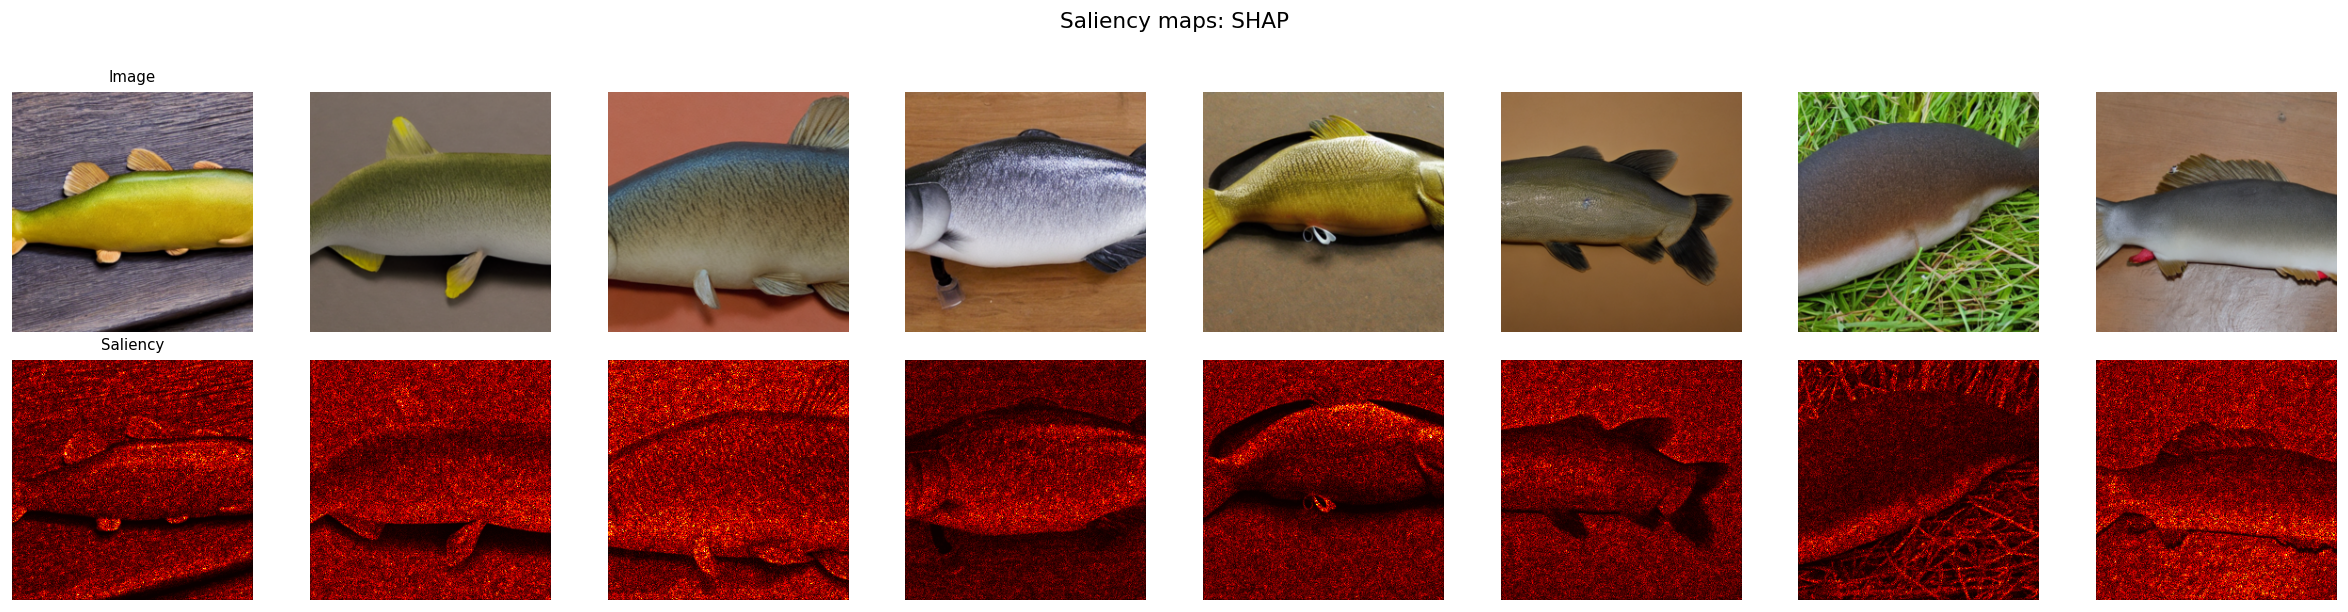
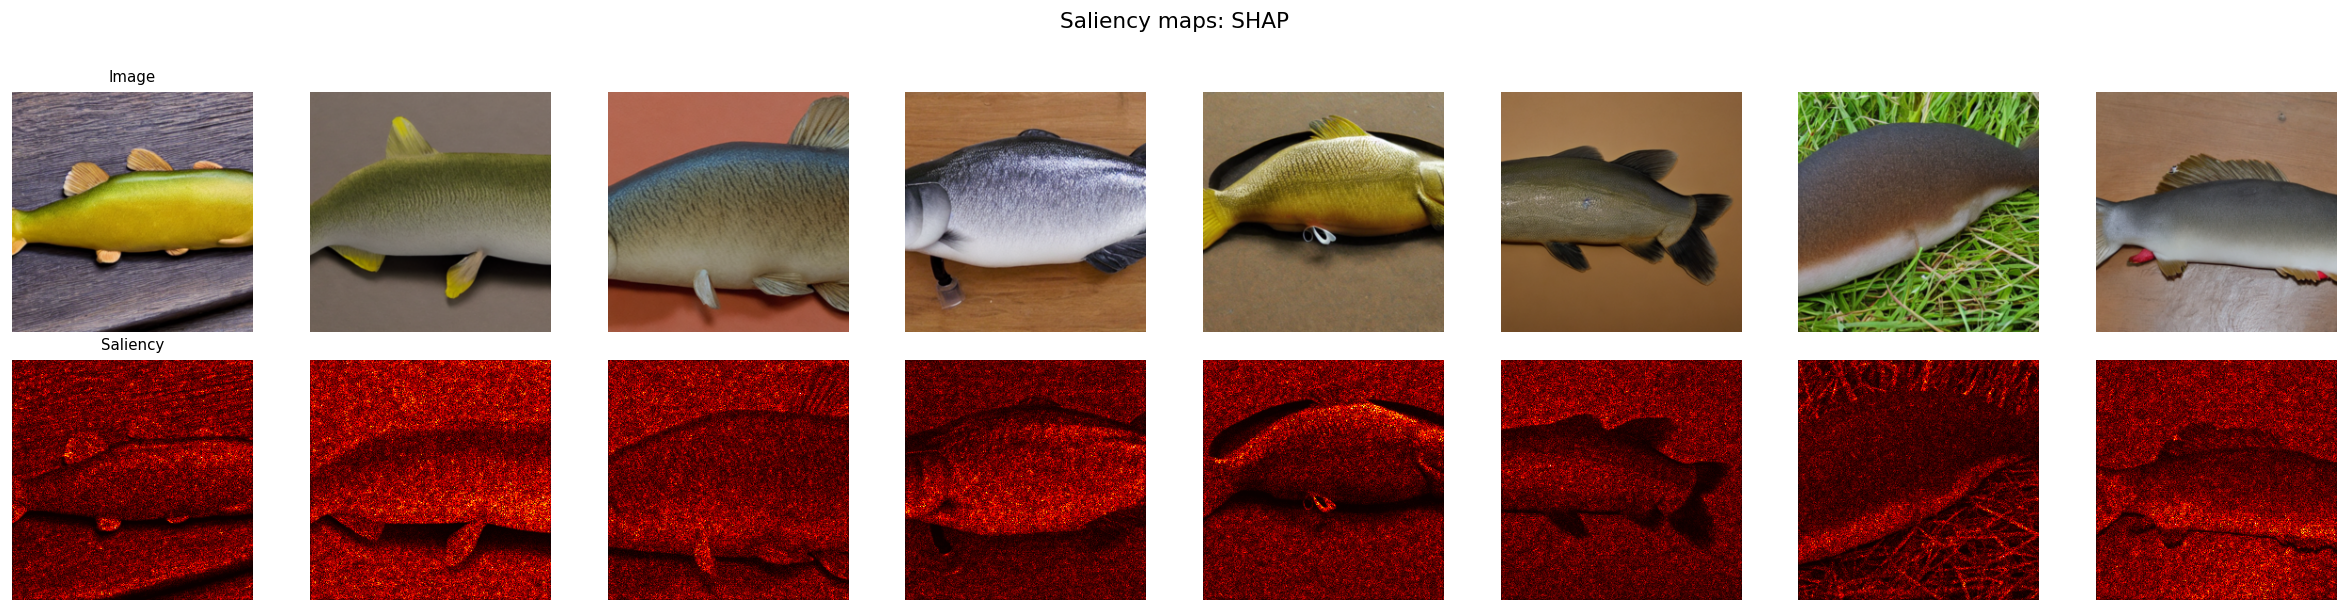
counterfactual added to pipeline

Changed region(s): [[0.0, 0.5899, 0.9949, 0.9935]]

diff --git a/full_metrics_pipeline.py b/full_metrics_pipeline.py
@@ -12,6 +12,7 @@ import torch
 import torch.nn.functional as F
 from torch.utils.data import DataLoader, Dataset, Subset
 from torchvision import transforms
+from counterfactual import generate_counterfactual
 
 
 def _try_import(module_name: str, pip_name: str):
@@ -66,6 +67,10 @@ class EvalConfig:
     # SmoothGrad
     smoothgrad_n_samples: int = 50
     smoothgrad_noise_std: float = 0.15
+    
+    # Counterfactual
+    counterfactual_steps: int = 200
+    counterfactual_lam: float = 0.5
 
 
 @dataclass
@@ -103,7 +108,7 @@ class Explainer:
         config: EvalConfig instance.
     """
 
-    SUPPORTED = {"shap", "gradcam","counterfactuals (TODO)"} #OTHERS:  "lime", "gradcam++", "intgrad", "smoothgrad"}
+    SUPPORTED = {"shap", "gradcam","counterfactuals"} #OTHERS:  "lime", "gradcam++", "intgrad", "smoothgrad"}
 
     def __init__(self, method: str, model: torch.nn.Module, config: EvalConfig):
         self.method = method.lower()
@@ -206,8 +211,29 @@ class Explainer:
         Returns:
             Normalised saliency map (H, W).
         """
-        print("NOT IMPLEMENTED YET")
-        pass
+        torch.manual_seed(42)
+        torch.cuda.manual_seed(42)
+        
+        target_class = 1 - label
+        x = img.unsqueeze(0).to(self.device)
+        
+        x_cf = generate_counterfactual(
+            self.model, x, target_class,
+            steps=self.config.counterfactual_steps,
+            lam=self.config.counterfactual_lam,
+        )
+        
+        diff = (x_cf - x).abs().mean(dim=1).squeeze()
+        
+        # Does it flip the class check
+        # with torch.no_grad():
+        #     orig_prob = torch.sigmoid(self.model(x)).item()
+        #     cf_prob = torch.sigmoid(self.model(x_cf)).item()
+        #     print(f"Original: {orig_prob:.3f} → Counterfactual: {cf_prob:.3f}")
+            
+        return _normalise(diff.cpu().numpy())
+    
+        
 
 
 def compute_fidelity(
@@ -332,6 +358,11 @@ def compute_identity(
     """
     sal1 = explainer.explain(image, label)
     sal2 = explainer.explain(image, label)
+
+    
+    # diff = np.max(np.abs(sal1 - sal2))
+    # print(f"  [{explainer.method}] identity max diff: {diff:.2e}")  # e.g. 1.23e-06
+    
     return 1.0 if np.allclose(sal1, sal2, atol=tol) else 0.0
 
 
@@ -782,7 +813,7 @@ if __name__ == "__main__":
    # train_loader, test_loader, idx_to_class = data_loaders(DEVICE,BATCH_SIZE)
     val_dataset = SafeImageFolder(os.path.join(DATA_DIR, "val"),   transform=get_tensor_transform())
 
-    methods_to_evaluate = ["gradcam", "shap"]#, "counterfactuals(TODO)"]
+    methods_to_evaluate = ["gradcam", "shap", "counterfactuals"]#, "counterfactuals(TODO)"]
 
     config = EvalConfig(
         interpretability_method= "shap",
@@ -795,9 +826,11 @@ if __name__ == "__main__":
         stability_n_perturbations = 5,
         stability_noise_std    = 0.05,
         separability_n_pairs   = 20,
-        separability_eps       = 1e-3,
+        separability_eps       = 1e-3,      # TODO In report we should argue for why this amount. 
         smoothgrad_n_samples   = 30,
         smoothgrad_noise_std   = 0.15,
+        counterfactual_steps   = 1,
+        counterfactual_lam     = 0.5
     )
 
     results = run_pipeline(model, val_dataset, methods_to_evaluate, config)

diff --git a/counterfactual.py b/counterfactual.py
@@ -103,9 +103,9 @@ if __name__ == "__main__":
 
         # will generate a counterfactual toward 0 ("ai") instead of 1 ("nature")
         # and predictions will move toward 0 rather than 1. just a test
-        if y == 1:
-            continue
-        
+        # if y == 1:
+        #     continue
+
         target_class = 1 - y
 
         # generate counterfactual
@@ -121,7 +121,8 @@ if __name__ == "__main__":
         #print(diff.max())
         if diff.max() > 0.1:
             print("WARNING: diff.max() higher than 0.1, higher values are set to the highest brightness")
-        diff = diff / 0.1 #diff.max()
+        # diff = diff / 0.1 #diff.max()'
+        diff = diff / diff.max()
 
         heatmap_np = diff.squeeze().cpu().numpy()
         heatmap_color = cm.hot(heatmap_np)[..., :3]
